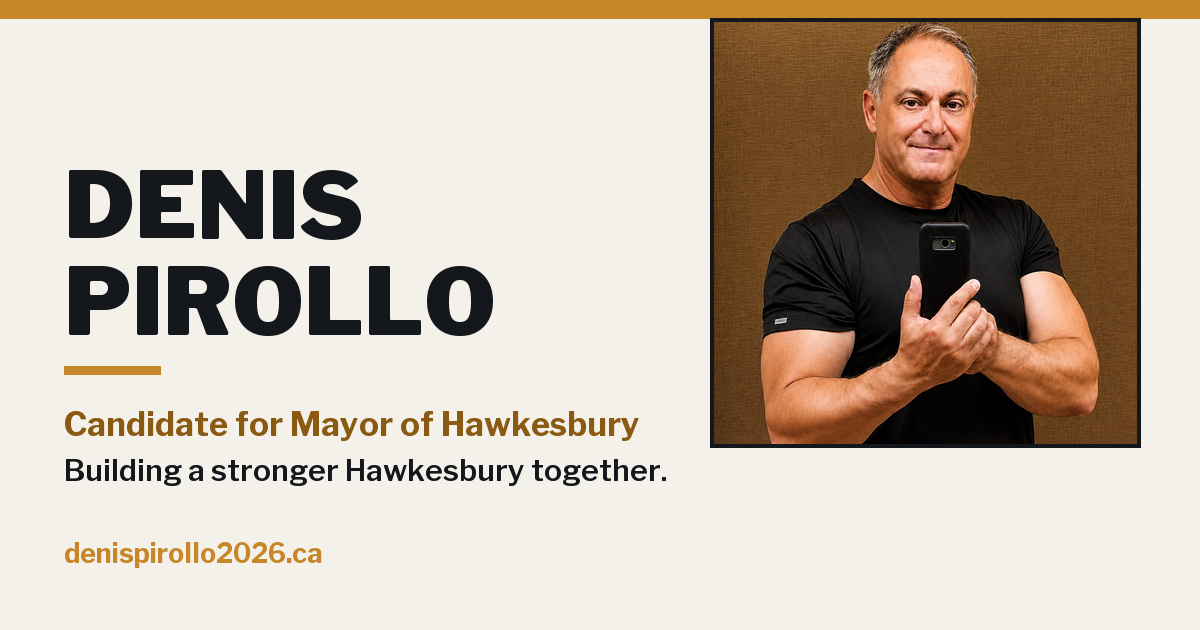
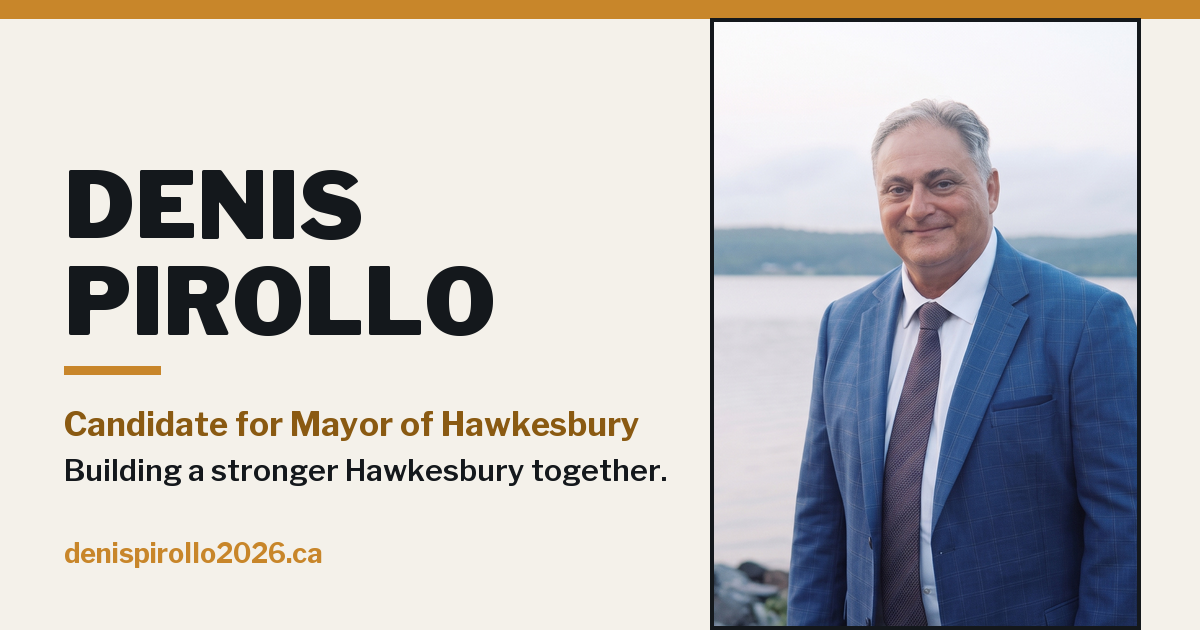
Portrait: the v3 waterfront photo becomes the hero and the link-preview card (hands cropped out)

diff --git a/index.html b/index.html
@@ -715,7 +715,7 @@
         </div>
       </div>
       <div class="hero-photo">
-        <img src="assets/778ca1fc77a9.jpg" alt="Denis Pirollo">
+        <img src="assets/ebbe7fe3dd94.jpg" alt="Denis Pirollo">
         <div class="hero-plate" aria-hidden="true">
           <div class="plate-figure">2026</div>
           <div class="plate-label">
